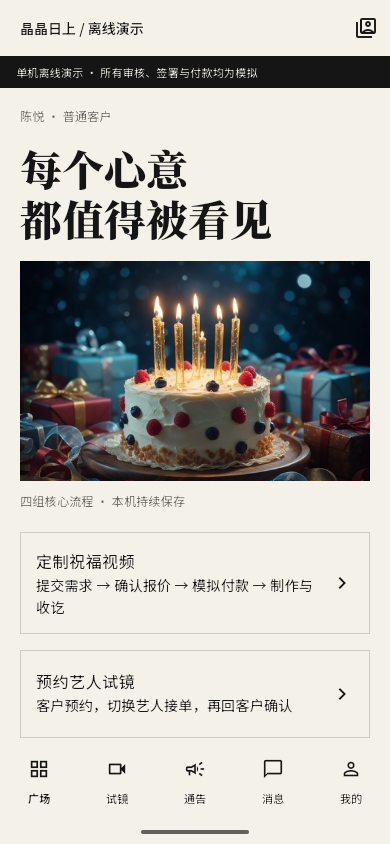
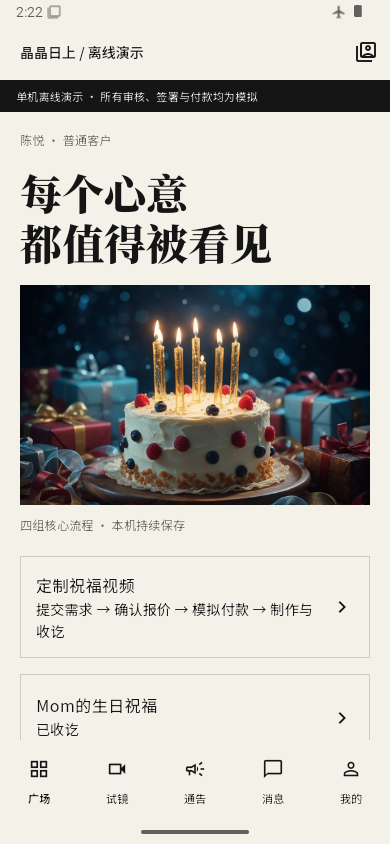
test: record offline Android device verification

diff --git a/scripts/offline-demo-device-check.py b/scripts/offline-demo-device-check.py
@@ -104,9 +104,24 @@ def type_text(text):
 
 
 def capture(name):
-    (out / (name + '.png')).write_bytes(adb('exec-out', 'screencap', '-p', binary=True))
     tree = screen()
+    (out / (name + '.png')).write_bytes(adb('exec-out', 'screencap', '-p', binary=True))
     (out / (name + '.xml')).write_text(ET.tostring(tree, encoding='unicode'))
+
+
+def wait_for_home():
+    # Activity launch can finish before Flutter publishes its accessibility
+    # tree on a slow AVD. Require the actual demo home, not a fixed delay.
+    deadline = time.monotonic() + 180
+    while time.monotonic() < deadline:
+        try:
+            tree = screen()
+            if match_node(tree, '定制祝福视频') is not None:
+                return
+        except RuntimeError:
+            pass
+        time.sleep(0.5)
+    raise RuntimeError('The offline demo home did not become ready after restart.')
 
 
 def database(name):
@@ -173,6 +188,7 @@ try:
         before = database('before-restart')
         adb('shell', 'am', 'force-stop', package)
         adb('shell', 'am', 'start', '-n', package + '/com.jingjingshangri.jingjingshangri_app.MainActivity')
+        wait_for_home()
         capture('after-restart')
         after = database('after-restart')
         assert before == after

diff --git a/docs/testing/evidence/android-offline-demo-20261105/REPORT.md b/docs/testing/evidence/android-offline-demo-20261105/REPORT.md
@@ -1,0 +1,50 @@
+# Android 四组离线演示交付记录
+
+四组流程已在独立本地分支实现，34项测试通过；最终APK在飞行模式下完成祝福视频全流程、本地视频播放与重启恢复。本次仍为模拟演示，实体Android设备验收和另一方审阅未进行。
+
+## 安装包与版本
+
+- 分支：`ux/android-offline-demo-20261105`。
+- 基线：PR39 `0a0f856a1d00b40fdc086bb90004dad46c2fd193`。
+- APK对应源码提交：`ac552448baf9f7daa52a4130cf95fe6dafa9f681`；之后只补验证脚本、证据和交付文档。
+- 本机文件：`/Users/yanghaoran/Documents/Codex/2026-11-05/task/artifacts/jingjing-android-offline-demo-debug.apk`。
+- 名称“晶晶日上·离线演示”，应用标识 `com.jingjingshangri.jingjingshangri_app.offline`，与原App共存。
+- Android 7.0／API24及以上，debug签名，208,535,855字节，支持arm64-v8a、armeabi-v7a、x86_64；本次实际运行arm64。
[1 lines of base64/hex data omitted]
+
+安装包保存在工作目录的artifacts中，没有加入Git。构建参数、校验值与机器可读结果见[BUILD.json](BUILD.json)、[VERIFICATION.json](VERIFICATION.json)。[使用与复跑说明](../../ANDROID_OFFLINE_DEMO_20261105.md)列出各账号的办理路线。
+
+## 四组流程与验证层次
+
+|流程|已实现的主要办理|本次证据|
+|---|---|---|
+|普通客户祝福视频|需求与素材、报价、约定、30/40/30模拟付款、剧本/样片/粗剪及反馈、成片播放、收讫|状态测试、页面组件测试、最终APK原生全流程|
+|艺人形象、试镜、参演|资料编辑、本人展示授权与模拟审核；同笔试镜跨账号预约付款和交付确认；独立项目报名、筛选、本人约定与参演进度|状态与页面组件测试；原生全流程未逐条重跑|
+|机构资料与成员|资料修改、邀请、成员接受、权限修改、移除及重新邀请|状态与页面组件测试；原生全流程未逐条重跑|
+|出品方通告|草稿、提交、退回修改、模拟审核发布、艺人投稿、感兴趣/婉拒、客服跟进待办|状态与页面组件测试；原生全流程未逐条重跑|
+
+共34项：12项离线状态测试、7项离线页面组件测试、15项既有导航/PR39入口回归。覆盖角色限制、创建重试、重复付款、写入失败回滚、排队动作身份固定、序列化、重置确认等。页面组件测试中的视频插件使用测试替身，实际媒体解码由下述原生检查另行证明。日志见[flutter-tests-final.log](flutter-tests-final.log)。新增Dart源码及测试分析无问题。
+
+普通Android清单独立生成通过，原应用标识、名称和网络权限保留；离线APK没有INTERNET或ACCESS_NETWORK_STATE权限，离线入口也拒绝Dart网络请求。构建与权限证据见[android-build-final.log](android-build-final.log)、[apk-permissions.txt](apk-permissions.txt)、[standard-manifest.log](standard-manifest.log)。未以普通清单生成冒称普通APK完整构建。
+
+## 最终包原生检查
+
+新建隔离AVD `JX_OFFLINE_DEMO`，序列号 `emulator-5580`，Android 15／API35，390×844测试显示尺寸。首次安装前启用飞行模式，本次检查结束仍为飞行模式；原 `emulator-5554` 和旧业务会话未操作。工具链、依赖、系统镜像均来自本机已有安装或缓存，没有安装新软件。
+
+通过真实页面输入、点击和滚动完成新订单 `orders-15`，本地样片与成片均实际播放，最终状态为 `received`。只读SQLite证实三笔模拟付款分别为首款30,000分、中期40,000分、尾款30,000分，没有通过数据库注入跳过步骤。事件见[blessing-result.json](blessing-result.json)，执行日志见[native-blessing-final.log](native-blessing-final.log)。
+
+随后强制停止并重新打开离线App。等待实际主页可操作后，比较重启前后持久化内容，结果完全相同：当前客户身份、两笔既有测试订单、六笔模拟付款及其余状态全部保留。第二笔是最终APK新走通的订单，第一笔为此前检查记录，没有清空。见[restart-result.json](restart-result.json)、[native-restart-final.log](native-restart-final.log)、[native-device.json](native-device.json)。私有数据库和完整业务快照仅保存在本机证据目录，没有加入Git。
+
+|断网本地成片播放|重启后的主页与已收讫订单|
+|---|---|
+|![本地成片播放](final-playing.png)|![重启恢复](after-restart.png)|
+
+初期遇到并处理的验证问题：新AVD首次启动System UI无响应，降低显示尺寸后可运行；早期原生脚本误把历史付款文本当成按钮，已限制匹配可点击控件，并在最终APK从新订单完整复跑；首次重启脚本在Flutter界面树尚未准备好时失败，实际App随后正常出现，脚本改为等待主页后重新验证通过。这些早期失败不计为通过，最终结果只取上述复跑证据。
+
+## 尚未发生的验收与交付
+
+前端负责人Bill-Billion已交付本机实现与检查记录，下一步可交实体Android设备体验；另一方对Android构建配置的实际审阅仍待进行。文件导入选择器在实体设备上的权限、机型差异和所有流程的原生逐页检查尚未验收。后端负责人chengcongcong222继续原线上正式能力和待核边界计划，本次不新增服务器接口依赖，也未代其认领或审阅。
+
+原18组、12路线、151条正式验收不因此关闭；沿用原盘点的0组正式关闭、151条未结案、82条局部证据，未重跑全套线上验收。现有7类正式能力缺口和3类待核边界不属于此离线包已完成范围。付款、审核和签约均为模拟，视频是预置示意素材。
+
+仅保存本地提交，未推送远端、合并或部署。本次没有权限拒绝或连接阻塞；用户体验离线包无需提供服务器、密钥或补充合同资料。

diff --git a/docs/tasks/records/UX-android-offline-demo-20261105.md b/docs/tasks/records/UX-android-offline-demo-20261105.md
@@ -25,7 +25,7 @@
 
 ## 验证计划
 
-业务测试覆盖四组状态、角色限制、重复付款、跨账号同记录、保存失败回滚、序列化与重置；组件测试覆盖入口及操作；使用现有Android SDK生成独立APK并在隔离模拟器断网核对媒体与重启。实际结果完成后补记。
+业务测试覆盖四组状态、角色限制、重复付款、跨账号同记录、保存失败回滚、序列化与重置；组件测试覆盖入口及操作；使用现有Android SDK生成独立APK并在隔离模拟器断网核对媒体与重启。实际结果见下文及交付报告。
 
 ## 当前实现与验证
 
@@ -39,7 +39,9 @@
 |通告全流程|草稿、退回修改、发布、本人投稿、兴趣或婉拒、客服待办均已实现|兴趣不自动授角、签约或付款|
 |基础能力|SQLite事务保存、串行写入、身份校验、重复付款不重复记账、媒体本地引用、消息、重置确认|模拟账号不构成真实登录和实名服务|
 
-本机已通过 **34 项测试**：19项本次离线状态/组件检查，15项现有App导航与PR39入口回归。新增Dart分析无问题。另单独运行普通Android清单生成，确认仍为原应用标识、原名称且保留原网络权限；离线APK单独移除网络权限。原生截图、产物哈希与断网恢复结果在交付证据中补充。
+本机已通过 **34 项测试**：19项本次离线状态/组件检查，15项现有App导航与PR39入口回归。新增Dart分析无问题。另单独运行普通Android清单生成，确认仍为原应用标识、原名称且保留原网络权限；离线APK单独移除网络权限。最终APK在断网模拟器完整走通祝福视频新订单、三笔模拟付款、本地样片与成片播放及收讫；强制停止后重新打开，持久化内容完全一致。其他三组有状态和组件测试，本次未逐条进行原生全流程复跑。
+
[1 lines of base64/hex data omitted]
 
 研发环境使用本机已有 Flutter 3.47.5、Dart 3.13.4、JDK17、Android SDK，复制缓存到本次工作目录；未安装新软件。创建独立AVD `JX_OFFLINE_DEMO`／`emulator-5580`，没有操作原 `emulator-5554` 人工会话。新模拟器首次启动出现System UI无响应，关闭该系统提示并降低测试分辨率后App可正常显示；不把这一系统初始化问题记成App功能通过。
 
@@ -47,6 +49,6 @@
 
 本次是用户另行收敛的单机展示包，不是原线上18组/12路线/151条的整体收尾。原线上基线仍为0/18组正式关闭、151条正式未结案、82条有局部证据；这些是继承的盘点口径，本次没有重新验收或把它们改为完成。原7类正式能力和3类待核边界继续按既有上线盘点推进。
 
-本侧继续收尾离线原生验证和本地提交；后续实际Android设备人工检查、演示素材更换和另一方审阅仍未发生。真实支付、实名、电子签、服务器部署不属于此APK。未推送、未合入、未部署，用户当前无需补充服务器或密钥。
+本侧已完成本机实现与上述验证；后续实际Android设备人工检查、按需更换演示素材和另一方审阅仍未发生，任务保持待审阅。真实支付、实名、电子签、服务器部署不属于此APK。未推送、未合入、未部署，用户当前无需补充服务器或密钥。
 
 操作与复跑入口：[Android离线演示说明](../../testing/ANDROID_OFFLINE_DEMO_20261105.md)。

diff --git a/docs/status/EXPERIENCE_CURRENT.md b/docs/status/EXPERIENCE_CURRENT.md
@@ -1,8 +1,8 @@
 # 本工作分支：Android 单机离线演示
 
-用户已将本次展示收敛为祝福视频下单、艺人形象/试镜/参演、机构资料/成员、出品方通告四组。Bill-Billion 在 `ux/android-offline-demo-20261105`、PR39 `0a0f856a` 基线上实现独立离线入口：五个虚构账号、SQLite、随包媒体、模拟审批付款、消息、重启保留与重置确认。34项离线及原导航测试已通过，可构建独立Android包；原生断网证据和准确交付状态见[本轮记录](../tasks/records/UX-android-offline-demo-20261105.md)。仅本地，未推送、未合入、未部署，另一方未审阅。
+用户已将本次展示收敛为祝福视频下单、艺人形象/试镜/参演、机构资料/成员、出品方通告四组。Bill-Billion 在 `ux/android-offline-demo-20261105`、PR39 `0a0f856a` 基线上实现独立离线入口：五个虚构账号、SQLite、随包媒体、模拟审批付款、消息、重启保留与重置确认。34项离线及原导航测试已通过，独立APK已交付；最终包断网走通祝福全流程、本地视频与重启数据保留，准确交付状态见[本轮记录](../tasks/records/UX-android-offline-demo-20261105.md)。仅本地，未推送、未合入、未部署，另一方未审阅。
 
-这是另外收敛的展示范围，不替代原18组/12路线/151条正式验收。线上7类正式能力、3类待核边界及全部完整办理仍按下方既有盘点；本次未修改服务器、正式合同或旧人工库。后续由本侧收尾原生检查并交用户在实际Android设备体验；当前无需补充服务器或密钥。
+这是另外收敛的展示范围，不替代原18组/12路线/151条正式验收。线上7类正式能力、3类待核边界及全部完整办理仍按下方既有盘点；本次未修改服务器、正式合同或旧人工库。后续由前端负责人Bill-Billion交用户在实际Android设备体验，并由另一方实际审阅Android构建边界；当前无需补充服务器或密钥。
 
 ## 原线上主线：先核需求缺口和上线计划，人工检查暂不催进
 
@@ -19,7 +19,7 @@
 |上线规划|8工作包覆盖开发、验收、材料、环境、OSS、发行和发布|这是组织方式，与7缺口/12路线交叉不相加|L01/L02现在推进，L03/L04并行准备；OSS仍最后购买|
 |Git|代码f465df13已含前端157b47e3，三组远端全部成功；integration仍468df28a|PR39草稿未合入；本轮文档交付CI不能冒称新业务测试|后端集中同步盘点，双方实际审阅|
 
-当前无新增业务代码或新业务测试；只做需求/代码/远端审阅和文档校验。未核清的全部功能缺口数仍不详，已查实7项及3待核不能当封顶。个人信息副本是否可由现有人工处理完整兑现须专项核清。
+上述原线上盘点未新增业务代码或新业务测试，只做需求/代码/远端审阅和文档校验；本分支新增的离线代码与验证另列于顶部。未核清的全部功能缺口数仍不详，已查实7项及3待核不能当封顶。个人信息副本是否可由现有人工处理完整兑现须专项核清。
 
 用户现在可向甲方并行索要五包资料的状态：昆山服务产品、支付托管、电子签、主体协议/正式规则、上线资源/发行材料。只索取缺项，不重复39份合同，不在聊天发密钥；OSS不提前购买。后端不能把独立可做的工作归因于等甲方。既有前端任务已转发认领交付，本次新增上线接入建议尚未确认其认领。
 

diff --git a/docs/status/MAINLINE_PROGRESS.md b/docs/status/MAINLINE_PROGRESS.md
@@ -1,6 +1,6 @@
 # 本分支：四组 Android 单机离线展示
 
-用户已授权从最新PR39 `0a0f856a` 新建 `ux/android-offline-demo-20261105`。Bill-Billion实现祝福下单、艺人形象/试镜/参演、机构主要功能及出品方通告，全在本机保存，五个虚构身份共享状态。34项新增与原导航测试通过，独立Android安装包已构建；原生断网、媒体与恢复证据见[交付记录](../tasks/records/UX-android-offline-demo-20261105.md)。旧工作树未提交改动和原人工会话保留。仅本地，未推送、未合入或部署。
+用户已授权从最新PR39 `0a0f856a` 新建 `ux/android-offline-demo-20261105`。Bill-Billion实现祝福下单、艺人形象/试镜/参演、机构主要功能及出品方通告，全在本机保存，五个虚构身份共享状态。34项新增与原导航测试通过，独立Android安装包已交付；最终包断网完成祝福全流程、媒体播放和重启恢复，证据见[交付记录](../tasks/records/UX-android-offline-demo-20261105.md)。旧工作树未提交改动和原人工会话保留。仅本地，未推送、未合入或部署。
 
 这次展示包单独计为四组，正式18组/12路线/151条仍按以下既有产品盘点。下一步是实际设备人工体验和另一方审阅；不把模拟结果算成正式支付、电子签、生成或整体验收。
 
@@ -19,7 +19,7 @@
 |上线规划|8工作包覆盖开发、验收、材料、环境、OSS、发行和发布|这是组织方式，与7缺口/12路线交叉不相加|L01/L02现在推进，L03/L04并行准备；OSS仍最后购买|
 |Git|代码f465df13已含前端157b47e3，三组远端全部成功；integration仍468df28a|PR39草稿未合入；本轮文档交付CI不能冒称新业务测试|后端集中同步盘点，双方实际审阅|
 
-当前无新增业务代码或新业务测试；只做需求/代码/远端审阅和文档校验。未核清的全部功能缺口数仍不详，已查实7项及3待核不能当封顶。个人信息副本是否可由现有人工处理完整兑现须专项核清。
+上述原线上盘点未新增业务代码或新业务测试，只做需求/代码/远端审阅和文档校验；本分支新增的离线代码与验证另列于顶部。未核清的全部功能缺口数仍不详，已查实7项及3待核不能当封顶。个人信息副本是否可由现有人工处理完整兑现须专项核清。
 
 用户现在可向甲方并行索要五包资料的状态：昆山服务产品、支付托管、电子签、主体协议/正式规则、上线资源/发行材料。只索取缺项，不重复39份合同，不在聊天发密钥；OSS不提前购买。后端不能把独立可做的工作归因于等甲方。既有前端任务已转发认领交付，本次新增上线接入建议尚未确认其认领。
 

diff --git a/docs/status/CORE_CURRENT.md b/docs/status/CORE_CURRENT.md
@@ -1,6 +1,6 @@
 # 本工作分支的离线演示记录
 
-用户授权的四组Android单机展示由Bill-Billion在 `ux/android-offline-demo-20261105` 独立实现，采用手机本地SQLite和明确标注的模拟付款/审核，未改服务器接口、正式数据库或既有人工会话。34项离线与导航测试通过，独立APK及原生断网结果见[本轮记录](../tasks/records/UX-android-offline-demo-20261105.md)。本地交付不表示chengcongcong222已审阅；未推送、未合入、未部署。
+用户授权的四组Android单机展示由Bill-Billion在 `ux/android-offline-demo-20261105` 独立实现，采用手机本地SQLite和明确标注的模拟付款/审核，未改服务器接口、正式数据库或既有人工会话。34项离线与导航测试通过，最终APK断网完成祝福全流程、本地视频播放与重启保留；交付结果见[本轮记录](../tasks/records/UX-android-offline-demo-20261105.md)。本地交付不表示chengcongcong222已审阅；未推送、未合入、未部署。
 
 原线上18组/12路线/151条以及7类正式能力、3类待核边界保持下方已有盘点，不因离线展示缩减或计为已关闭。Core后续继续原上线计划，本次不新增服务器接口接入要求。
 
@@ -19,7 +19,7 @@
 |上线规划|8工作包覆盖开发、验收、材料、环境、OSS、发行和发布|这是组织方式，与7缺口/12路线交叉不相加|L01/L02现在推进，L03/L04并行准备；OSS仍最后购买|
 |Git|代码f465df13已含前端157b47e3，三组远端全部成功；integration仍468df28a|PR39草稿未合入；本轮文档交付CI不能冒称新业务测试|后端集中同步盘点，双方实际审阅|
 
-当前无新增业务代码或新业务测试；只做需求/代码/远端审阅和文档校验。未核清的全部功能缺口数仍不详，已查实7项及3待核不能当封顶。个人信息副本是否可由现有人工处理完整兑现须专项核清。
+上述原线上盘点未新增业务代码或新业务测试，只做需求/代码/远端审阅和文档校验；本分支新增的离线代码与验证另列于顶部。未核清的全部功能缺口数仍不详，已查实7项及3待核不能当封顶。个人信息副本是否可由现有人工处理完整兑现须专项核清。
 
 用户现在可向甲方并行索要五包资料的状态：昆山服务产品、支付托管、电子签、主体协议/正式规则、上线资源/发行材料。只索取缺项，不重复39份合同，不在聊天发密钥；OSS不提前购买。后端不能把独立可做的工作归因于等甲方。既有前端任务已转发认领交付，本次新增上线接入建议尚未确认其认领。
 

diff --git a/docs/collaboration/client-complete-20261028/PRODUCT_STATUS.md b/docs/collaboration/client-complete-20261028/PRODUCT_STATUS.md
@@ -1,6 +1,6 @@
 # 整个项目做到哪里：当前成果、缺口与下一步
 
-本分支新增用户另行收敛的 **Android单机离线四组展示**，负责人Bill-Billion：祝福视频下单、艺人形象/试镜/参演、机构资料/成员、出品方通告。已实现专用本机页面、SQLite、五个账号、媒体与模拟流程，34项状态/组件及原导航测试通过，Android包已构建。原生断网和最终产物事实见[本次交付记录](../../tasks/records/UX-android-offline-demo-20261105.md)。仅本地分支，尚未另一方审阅、推送、合入或正式启用。
+本分支新增用户另行收敛的 **Android单机离线四组展示**，负责人Bill-Billion：祝福视频下单、艺人形象/试镜/参演、机构资料/成员、出品方通告。已实现专用本机页面、SQLite、五个账号、媒体与模拟流程，34项状态/组件及原导航测试通过，Android包已交付，最终包断网完成祝福全流程、本地视频与重启数据保留。原生验证层次及最终产物事实见[本次交付记录](../../tasks/records/UX-android-offline-demo-20261105.md)。仅本地分支，尚未另一方审阅、推送、合入或正式启用。
 
 该展示范围与以下原线上产品范围分开：不降低原18组/12路线/151条标准，不把四组本机演示当作线上整组关闭。前端下一步交实际Android设备体验，后端按既有正式能力与待核边界计划继续；当前离线包无需服务器或外部服务密钥。
 

diff --git a/docs/testing/ANDROID_OFFLINE_DEMO_20261105.md b/docs/testing/ANDROID_OFFLINE_DEMO_20261105.md
@@ -39,4 +39,6 @@ flutter test --no-pub test/offline
 dart analyze lib/offline lib/main_offline.dart test/offline
 ```
 
-实际受测构建、原生设备、截图、测试结果与剩余限制在本次任务记录中登记。不得把本机演示通过记成原18组、12路线、151条正式验收通过。
+本次34项离线与既有导航测试通过。最终APK在飞行模式下走通祝福视频全流程、本地媒体播放和重启数据保留；其余三组由状态与组件测试验证，实体设备验收未进行。[最终交付记录与截图](evidence/android-offline-demo-20261105/REPORT.md)列明安装包、校验值和剩余限制。不得把本机演示通过记成原18组、12路线、151条正式验收通过。
+
+可用 `scripts/offline-demo-device-check.py` 复跑原生祝福和重启检查，必须显式指定隔离模拟器序列号、390×844显示尺寸和飞行模式。该脚本通过页面操作，只读核对本机数据库，不修改数据库推动业务状态。
